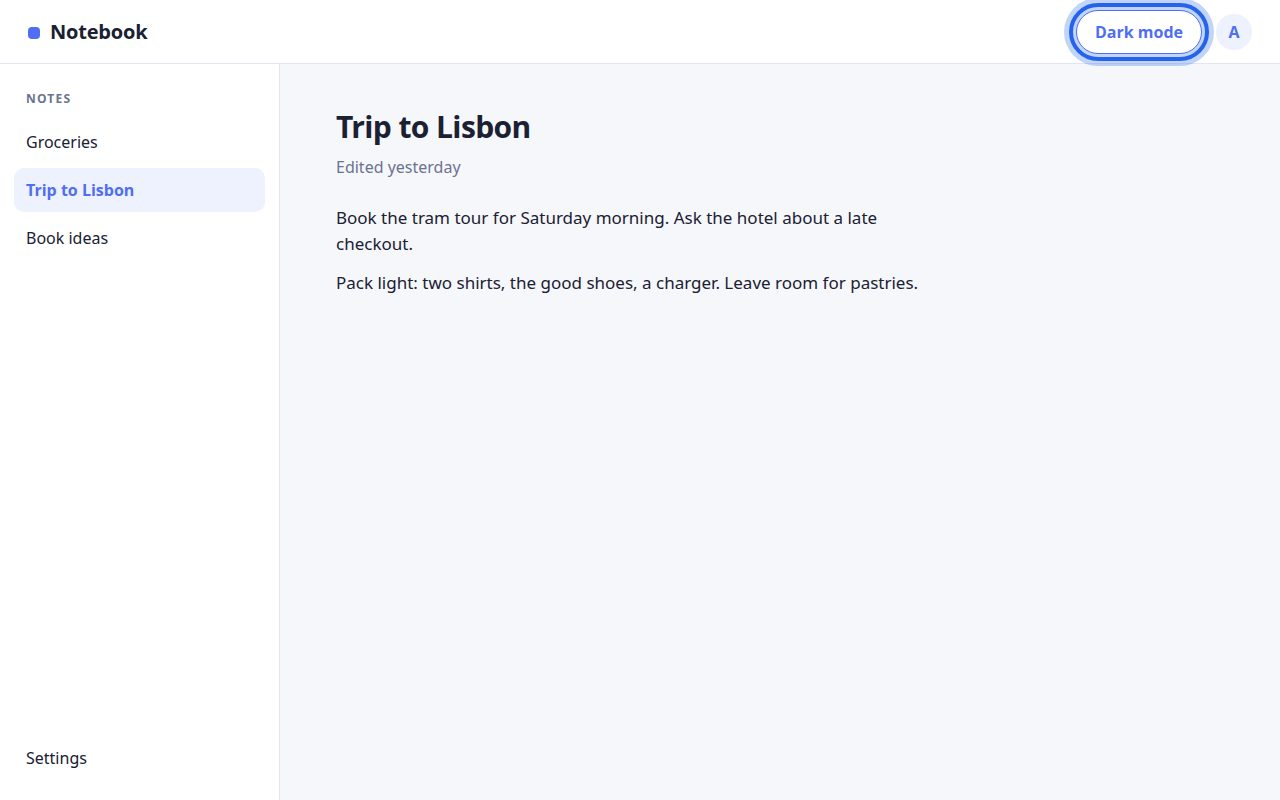
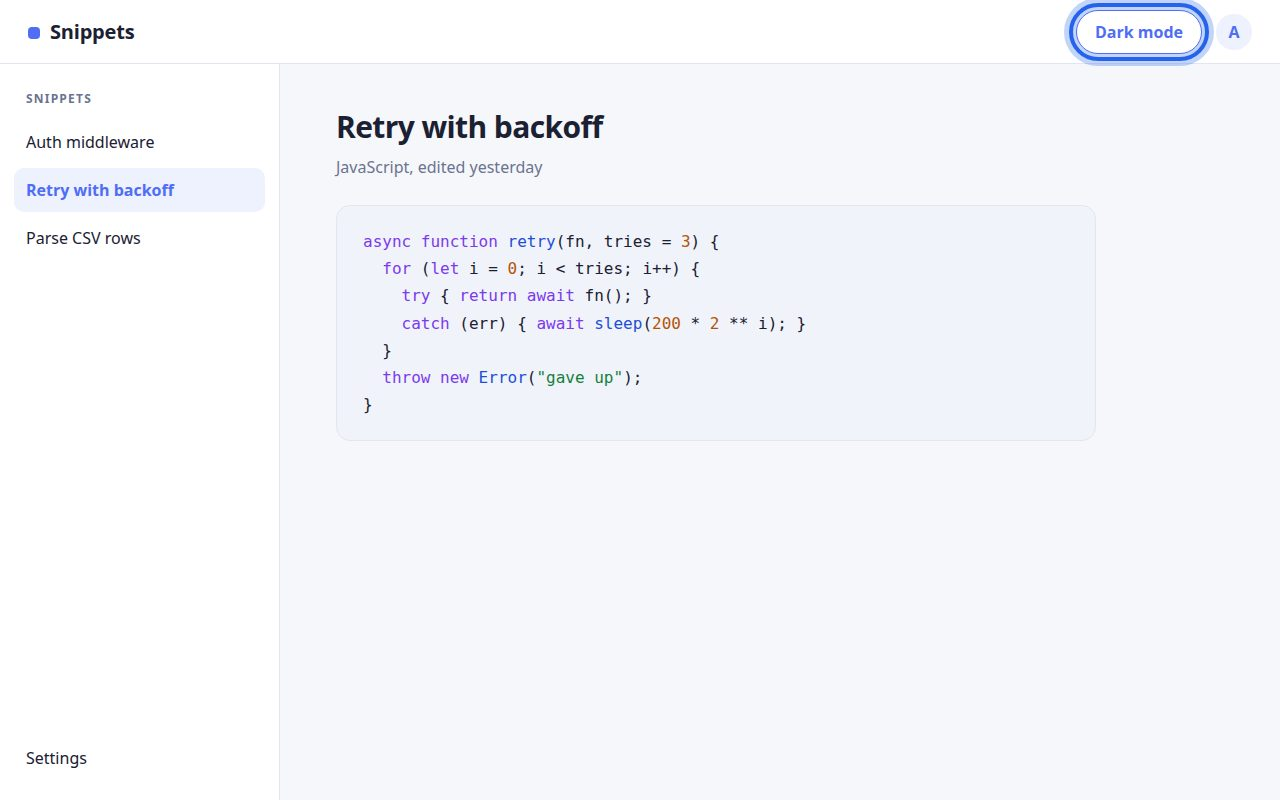
Example plan: the made-up app is a code snippets app, so the demo shows code

diff --git a/examples/dark-mode/files/mocks/theme-b-2.html b/examples/dark-mode/files/mocks/theme-b-2.html
@@ -2,17 +2,22 @@
 <html lang="en"><head>
 <meta charset="utf-8">
 <meta name="viewport" content="width=device-width, initial-scale=1">
-<title>Notebook (mock)</title>
-<link rel="stylesheet" href="notes.css">
+<title>Snippets (mock)</title>
+<link rel="stylesheet" href="app.css">
 </head>
 <body class="dark">
-<header class="top"><span class="brand"><i></i>Notebook</span><span class="grow"></span><button type="button" class="btn moon">Light mode</button><span class="me">A</span></header>
-<nav class="side"><h6>Notes</h6><a href="#">Groceries</a><a href="#" class="on">Trip to Lisbon</a><a href="#">Book ideas</a><span class="gap"></span><a href="#">Settings</a></nav>
+<header class="top"><span class="brand"><i></i>Snippets</span><span class="grow"></span><button type="button" class="btn moon">Light mode</button><span class="me">A</span></header>
+<nav class="side"><h6>Snippets</h6><a href="#">Auth middleware</a><a href="#" class="on">Retry with backoff</a><a href="#">Parse CSV rows</a><span class="gap"></span><a href="#">Settings</a></nav>
 <main>
-<h1>Trip to Lisbon</h1>
-<p class="sub">Edited yesterday</p>
-<div class="note"><p>Book the tram tour for Saturday morning. Ask the hotel about a late checkout.</p>
-<p>Pack light: two shirts, the good shoes, a charger. Leave room for pastries.</p></div>
+<h1>Retry with backoff</h1>
+<p class="sub">JavaScript, edited yesterday</p>
+<pre class="code"><span class="k">async function</span> <span class="f">retry</span>(fn, tries = <span class="n">3</span>) {
+  <span class="k">for</span> (<span class="k">let</span> i = <span class="n">0</span>; i &lt; tries; i++) {
+    <span class="k">try</span> { <span class="k">return await</span> fn(); }
+    <span class="k">catch</span> (err) { <span class="k">await</span> <span class="f">sleep</span>(<span class="n">200</span> * <span class="n">2</span> ** i); }
+  }
+  <span class="k">throw new</span> <span class="f">Error</span>(<span class="s">"gave up"</span>);
+}</pre>
 </main>
 <script src="proto-kit.js"></script>
 </body></html>

diff --git a/examples/dark-mode/files/mocks/theme-b-1.html b/examples/dark-mode/files/mocks/theme-b-1.html
@@ -2,17 +2,22 @@
 <html lang="en"><head>
 <meta charset="utf-8">
 <meta name="viewport" content="width=device-width, initial-scale=1">
-<title>Notebook (mock)</title>
-<link rel="stylesheet" href="notes.css">
+<title>Snippets (mock)</title>
+<link rel="stylesheet" href="app.css">
 </head>
 <body>
-<header class="top"><span class="brand"><i></i>Notebook</span><span class="grow"></span><button type="button" class="btn moon">Dark mode</button><span class="me">A</span></header>
-<nav class="side"><h6>Notes</h6><a href="#">Groceries</a><a href="#" class="on">Trip to Lisbon</a><a href="#">Book ideas</a><span class="gap"></span><a href="#">Settings</a></nav>
+<header class="top"><span class="brand"><i></i>Snippets</span><span class="grow"></span><button type="button" class="btn moon">Dark mode</button><span class="me">A</span></header>
+<nav class="side"><h6>Snippets</h6><a href="#">Auth middleware</a><a href="#" class="on">Retry with backoff</a><a href="#">Parse CSV rows</a><span class="gap"></span><a href="#">Settings</a></nav>
 <main>
-<h1>Trip to Lisbon</h1>
-<p class="sub">Edited yesterday</p>
-<div class="note"><p>Book the tram tour for Saturday morning. Ask the hotel about a late checkout.</p>
-<p>Pack light: two shirts, the good shoes, a charger. Leave room for pastries.</p></div>
+<h1>Retry with backoff</h1>
+<p class="sub">JavaScript, edited yesterday</p>
+<pre class="code"><span class="k">async function</span> <span class="f">retry</span>(fn, tries = <span class="n">3</span>) {
+  <span class="k">for</span> (<span class="k">let</span> i = <span class="n">0</span>; i &lt; tries; i++) {
+    <span class="k">try</span> { <span class="k">return await</span> fn(); }
+    <span class="k">catch</span> (err) { <span class="k">await</span> <span class="f">sleep</span>(<span class="n">200</span> * <span class="n">2</span> ** i); }
+  }
+  <span class="k">throw new</span> <span class="f">Error</span>(<span class="s">"gave up"</span>);
+}</pre>
 </main>
 <script src="proto-kit.js"></script>
 </body></html>

diff --git a/examples/dark-mode/files/mocks/app.css b/examples/dark-mode/files/mocks/app.css
@@ -1,6 +1,6 @@
-/* A small made-up notes app, for the dark mode example plan. */
-:root { --bg:#f6f7fb; --panel:#ffffff; --ink:#1b2033; --muted:#6b7390; --line:#e3e6f0; --accent:#4f6df5; --soft:#eef1fe; }
-.dark { --bg:#0f1220; --panel:#181c2e; --ink:#eef0f8; --muted:#98a1bd; --line:#2a3050; --accent:#8ea2ff; --soft:#232a49; }
+/* A small made-up code snippets app, for the dark mode example plan. */
+:root { --bg:#f6f7fb; --panel:#ffffff; --ink:#1b2033; --muted:#6b7390; --line:#e3e6f0; --accent:#4f6df5; --soft:#eef1fe; --code:#f1f3fa; --k:#7c3aed; --f:#1d4ed8; --s:#15803d; --n:#b45309; }
+.dark { --bg:#0f1220; --panel:#181c2e; --ink:#eef0f8; --muted:#98a1bd; --line:#2a3050; --accent:#8ea2ff; --soft:#232a49; --code:#0b0e1a; --k:#c4a5ff; --f:#8ea2ff; --s:#86e0a3; --n:#f5c06a; }
 * { box-sizing:border-box; }
 html, body { margin:0; height:100%; }
 body { background:var(--bg); color:var(--ink); font:16px/1.5 "Inter","Segoe UI",system-ui,sans-serif; display:grid;
@@ -18,7 +18,8 @@ body { background:var(--bg); color:var(--ink); font:16px/1.5 "Inter","Segoe UI",
 main { padding:40px 56px; overflow:hidden; }
 h1 { margin:0 0 6px; font-size:30px; letter-spacing:-.02em; }
 .sub { color:var(--muted); margin:0 0 26px; }
-.note p { max-width:62ch; font-size:17px; margin:0 0 14px; }
+.code { margin:0; max-width:760px; background:var(--code); border:1px solid var(--line); border-radius:14px; padding:22px 26px; font:16px/1.7 "JetBrains Mono","SF Mono",ui-monospace,Menlo,Consolas,monospace; overflow:hidden; }
+.code .k { color:var(--k); } .code .f { color:var(--f); } .code .s { color:var(--s); } .code .n { color:var(--n); }
 .btn { font:inherit; font-weight:650; border:1px solid var(--line); background:var(--panel); color:var(--ink); border-radius:999px; padding:9px 18px; cursor:pointer; }
 .btn.moon { border-color:var(--accent); color:var(--accent); }
 .pick { display:grid; grid-template-columns:repeat(3, 220px); gap:18px; }

diff --git a/examples/dark-mode/files/mocks/theme-a-1.html b/examples/dark-mode/files/mocks/theme-a-1.html
@@ -2,17 +2,22 @@
 <html lang="en"><head>
 <meta charset="utf-8">
 <meta name="viewport" content="width=device-width, initial-scale=1">
-<title>Notebook (mock)</title>
-<link rel="stylesheet" href="notes.css">
+<title>Snippets (mock)</title>
+<link rel="stylesheet" href="app.css">
 </head>
 <body>
-<header class="top"><span class="brand"><i></i>Notebook</span><span class="grow"></span><span class="me">A</span></header>
-<nav class="side"><h6>Notes</h6><a href="#">Groceries</a><a href="#" class="on">Trip to Lisbon</a><a href="#">Book ideas</a><span class="gap"></span><a href="#">Settings</a></nav>
+<header class="top"><span class="brand"><i></i>Snippets</span><span class="grow"></span><span class="me">A</span></header>
+<nav class="side"><h6>Snippets</h6><a href="#">Auth middleware</a><a href="#" class="on">Retry with backoff</a><a href="#">Parse CSV rows</a><span class="gap"></span><a href="#">Settings</a></nav>
 <main>
-<h1>Trip to Lisbon</h1>
-<p class="sub">Edited yesterday</p>
-<div class="note"><p>Book the tram tour for Saturday morning. Ask the hotel about a late checkout.</p>
-<p>Pack light: two shirts, the good shoes, a charger. Leave room for pastries.</p></div>
+<h1>Retry with backoff</h1>
+<p class="sub">JavaScript, edited yesterday</p>
+<pre class="code"><span class="k">async function</span> <span class="f">retry</span>(fn, tries = <span class="n">3</span>) {
+  <span class="k">for</span> (<span class="k">let</span> i = <span class="n">0</span>; i &lt; tries; i++) {
+    <span class="k">try</span> { <span class="k">return await</span> fn(); }
+    <span class="k">catch</span> (err) { <span class="k">await</span> <span class="f">sleep</span>(<span class="n">200</span> * <span class="n">2</span> ** i); }
+  }
+  <span class="k">throw new</span> <span class="f">Error</span>(<span class="s">"gave up"</span>);
+}</pre>
 </main>
 <script src="proto-kit.js"></script>
 </body></html>

diff --git a/examples/dark-mode/files/mocks/theme-a-3.html b/examples/dark-mode/files/mocks/theme-a-3.html
@@ -2,12 +2,12 @@
 <html lang="en"><head>
 <meta charset="utf-8">
 <meta name="viewport" content="width=device-width, initial-scale=1">
-<title>Notebook (mock)</title>
-<link rel="stylesheet" href="notes.css">
+<title>Snippets (mock)</title>
+<link rel="stylesheet" href="app.css">
 </head>
 <body class="dark">
-<header class="top"><span class="brand"><i></i>Notebook</span><span class="grow"></span><span class="me">A</span></header>
-<nav class="side"><h6>Notes</h6><a href="#">Groceries</a><a href="#">Trip to Lisbon</a><a href="#">Book ideas</a><span class="gap"></span><a href="#" class="on">Settings</a></nav>
+<header class="top"><span class="brand"><i></i>Snippets</span><span class="grow"></span><span class="me">A</span></header>
+<nav class="side"><h6>Snippets</h6><a href="#">Auth middleware</a><a href="#">Retry with backoff</a><a href="#">Parse CSV rows</a><span class="gap"></span><a href="#" class="on">Settings</a></nav>
 <main>
 <h1>Settings</h1>
 <p class="sub">Appearance</p>

diff --git a/examples/dark-mode/files/mocks/theme-a-2.html b/examples/dark-mode/files/mocks/theme-a-2.html
@@ -2,12 +2,12 @@
 <html lang="en"><head>
 <meta charset="utf-8">
 <meta name="viewport" content="width=device-width, initial-scale=1">
-<title>Notebook (mock)</title>
-<link rel="stylesheet" href="notes.css">
+<title>Snippets (mock)</title>
+<link rel="stylesheet" href="app.css">
 </head>
 <body>
-<header class="top"><span class="brand"><i></i>Notebook</span><span class="grow"></span><span class="me">A</span></header>
-<nav class="side"><h6>Notes</h6><a href="#">Groceries</a><a href="#">Trip to Lisbon</a><a href="#">Book ideas</a><span class="gap"></span><a href="#" class="on">Settings</a></nav>
+<header class="top"><span class="brand"><i></i>Snippets</span><span class="grow"></span><span class="me">A</span></header>
+<nav class="side"><h6>Snippets</h6><a href="#">Auth middleware</a><a href="#">Retry with backoff</a><a href="#">Parse CSV rows</a><span class="gap"></span><a href="#" class="on">Settings</a></nav>
 <main>
 <h1>Settings</h1>
 <p class="sub">Appearance</p>

diff --git a/CHANGELOG.md b/CHANGELOG.md
@@ -11,7 +11,7 @@ All notable changes to **plan-html** are documented here.
   see what it connects to; click a box that names a card and that card opens.
   A hand-drawn `diagramSvg` still renders.
 - **A small example plan.** `examples/dark-mode` plans dark mode for a small
-  notes app: one design question with two options as mock screens, two
+  code snippets app: one design question with two options as mock screens, two
   intents, a boundary and a decision. The README's pictures and its "try it
   without an agent" command use it.
 

diff --git a/README.md b/README.md
@@ -61,7 +61,7 @@ Node is only needed for the lint and test tooling, not to use the skill.
 
 ## Try it without an agent
 
-Open a small ready-made plan (dark mode for a notes app):
+Open a small ready-made plan (dark mode for a code snippets app):
 
 ```bash
 git clone https://github.com/DoryZi/plan-html && cd plan-html
